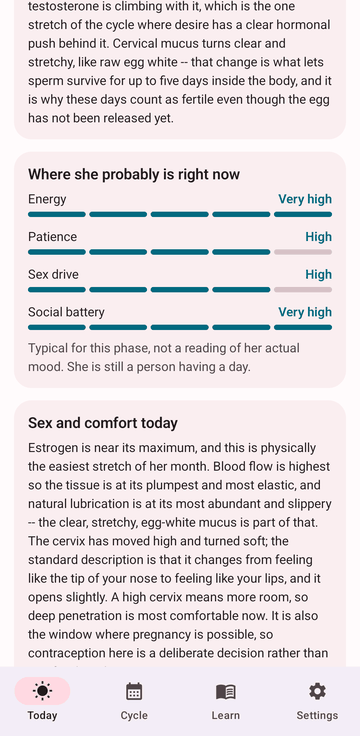
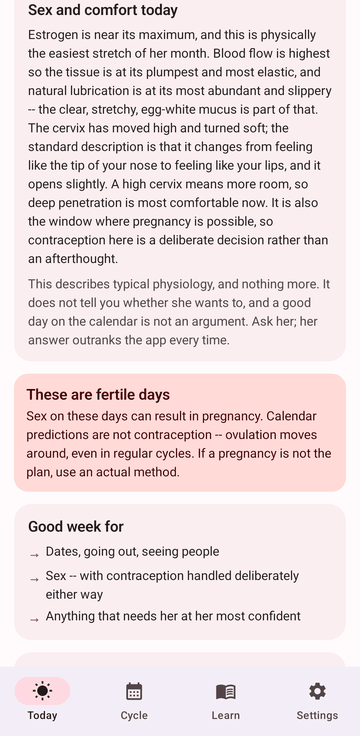
Refresh README screenshots from the published build, add the widget
The Today and sex-and-comfort shots predated the card reordering, so they showed
the old layout. Recaptured from the build12 release APK, and added a shot of the
home screen widget since that is now worth showing.

diff --git a/README.md b/README.md
@@ -20,6 +20,9 @@ the app has no internet permission at all.
   <img src="docs/screenshots/learn.png" width="270" alt="The Learn reference section" />
   <img src="docs/screenshots/notification.png" width="270" alt="The daily morning notification" />
 </p>
+<p align="center">
+  <img src="docs/screenshots/widget.png" width="420" alt="The home screen widget" />
+</p>
 
 ---
 
